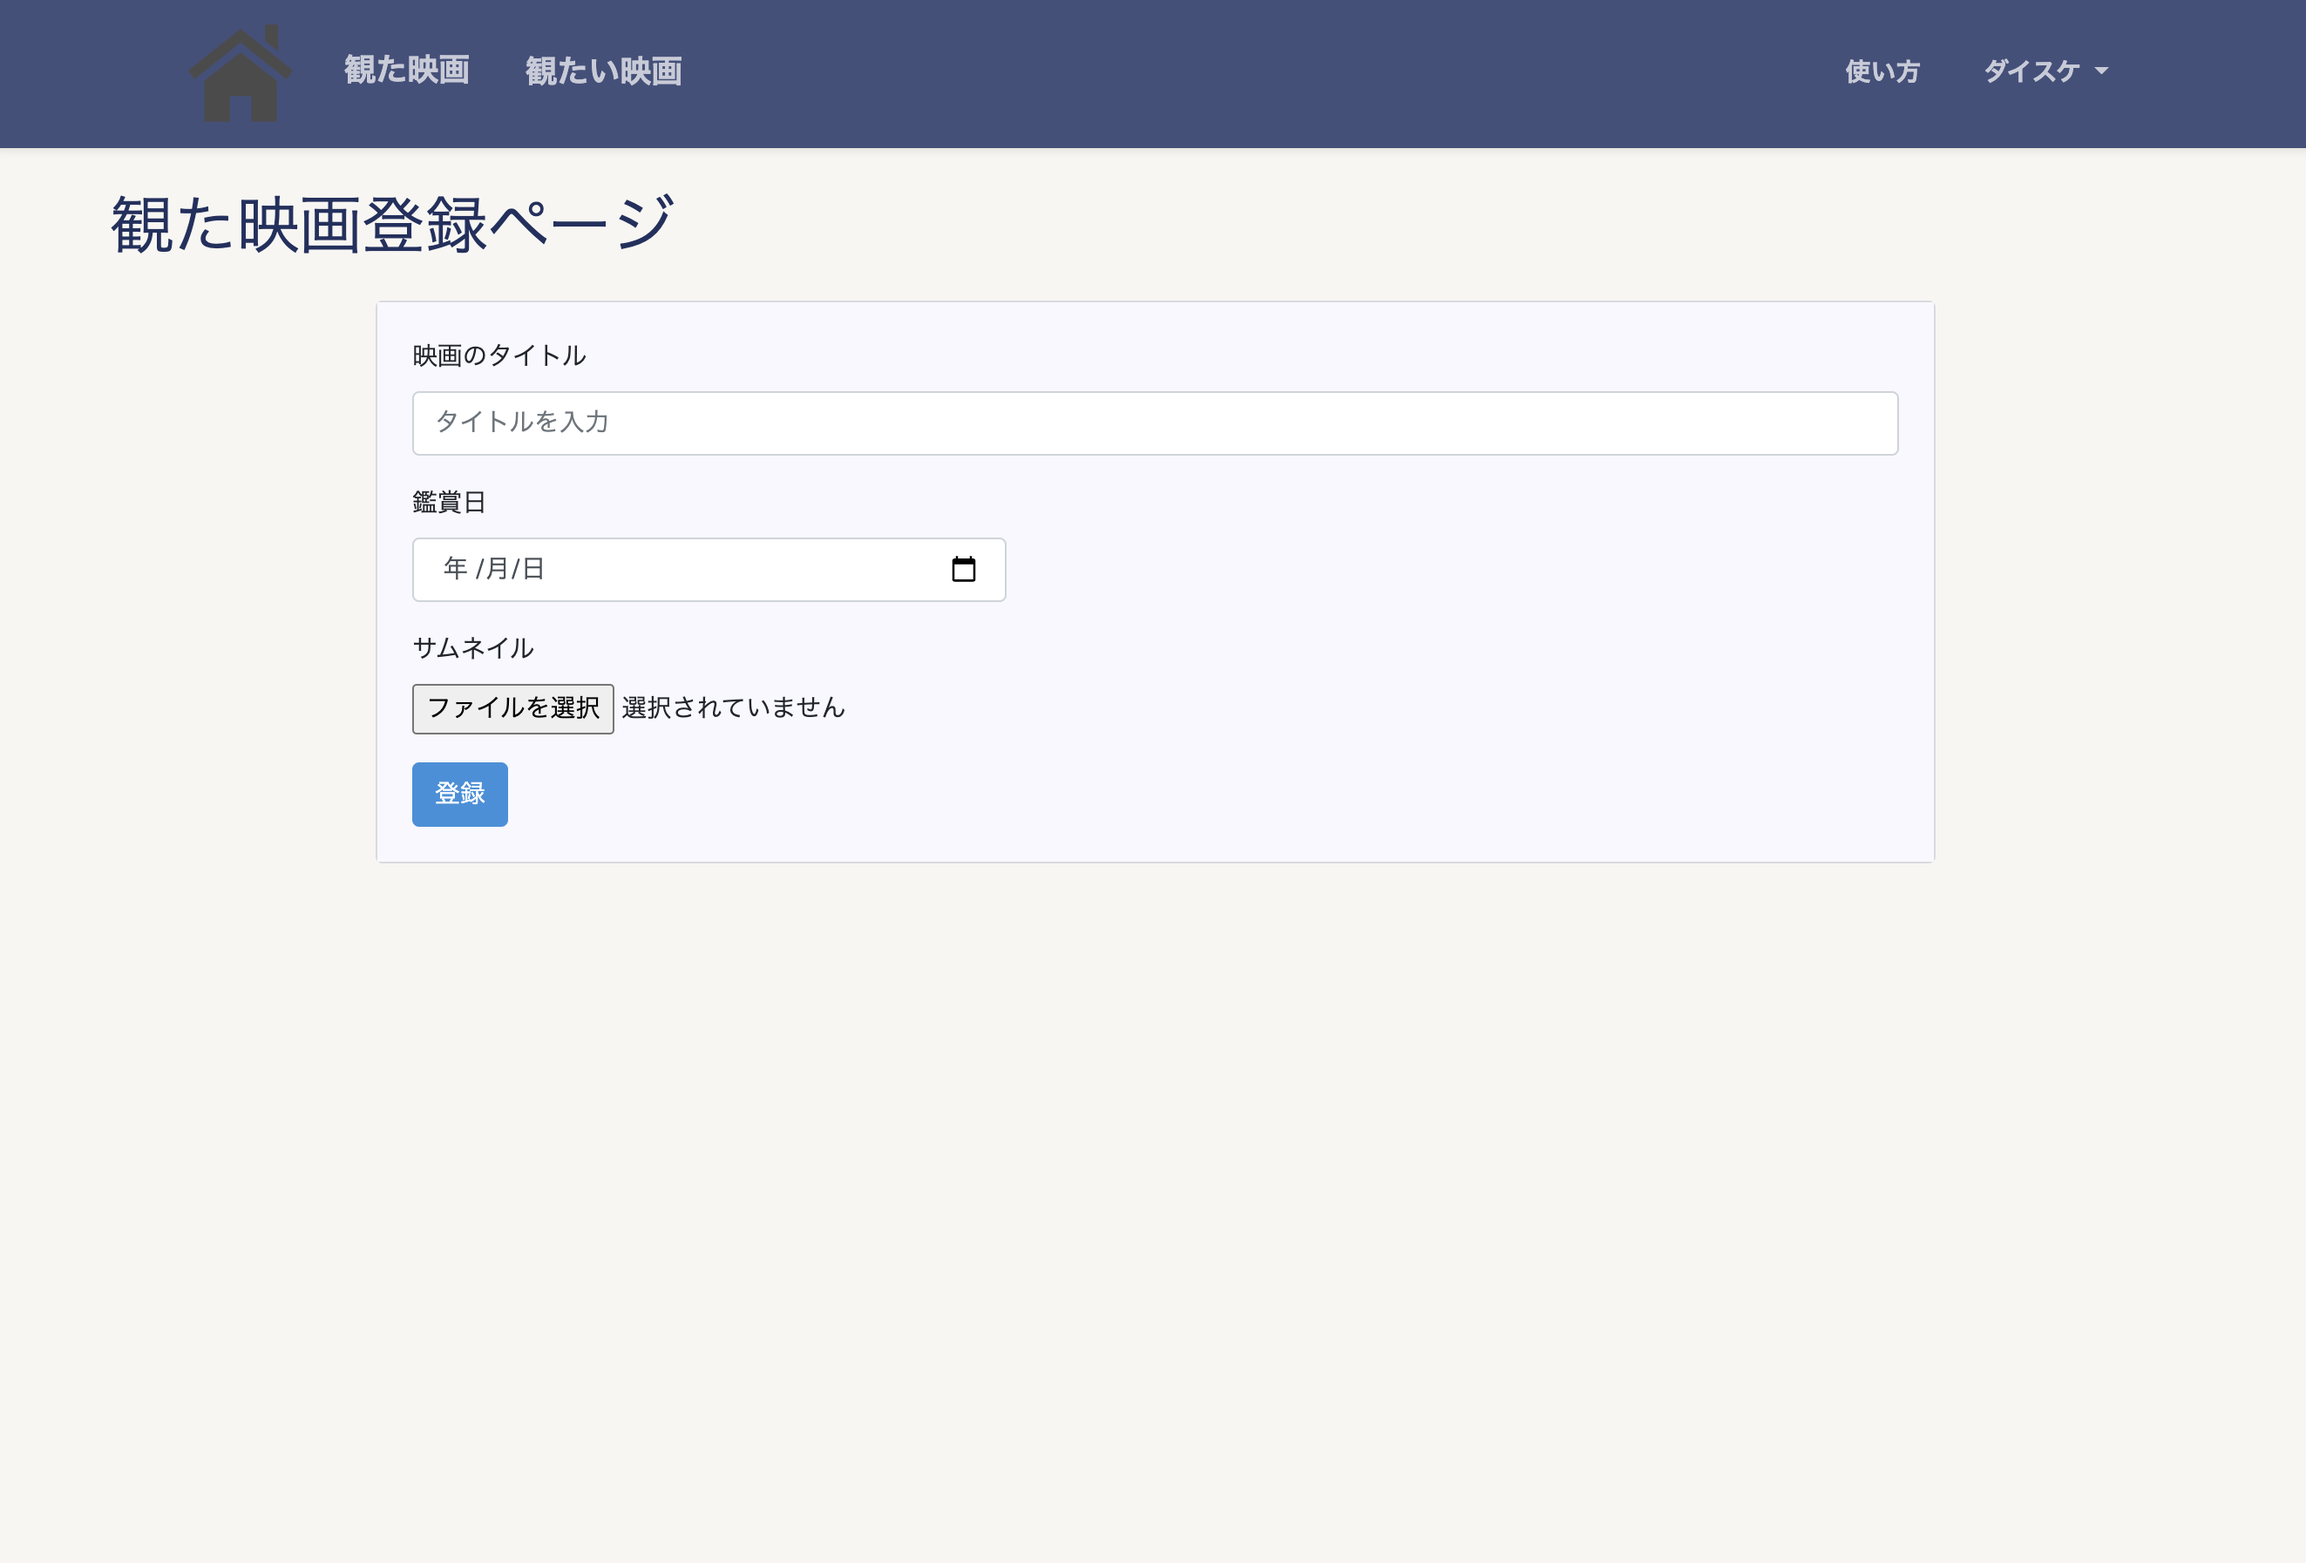
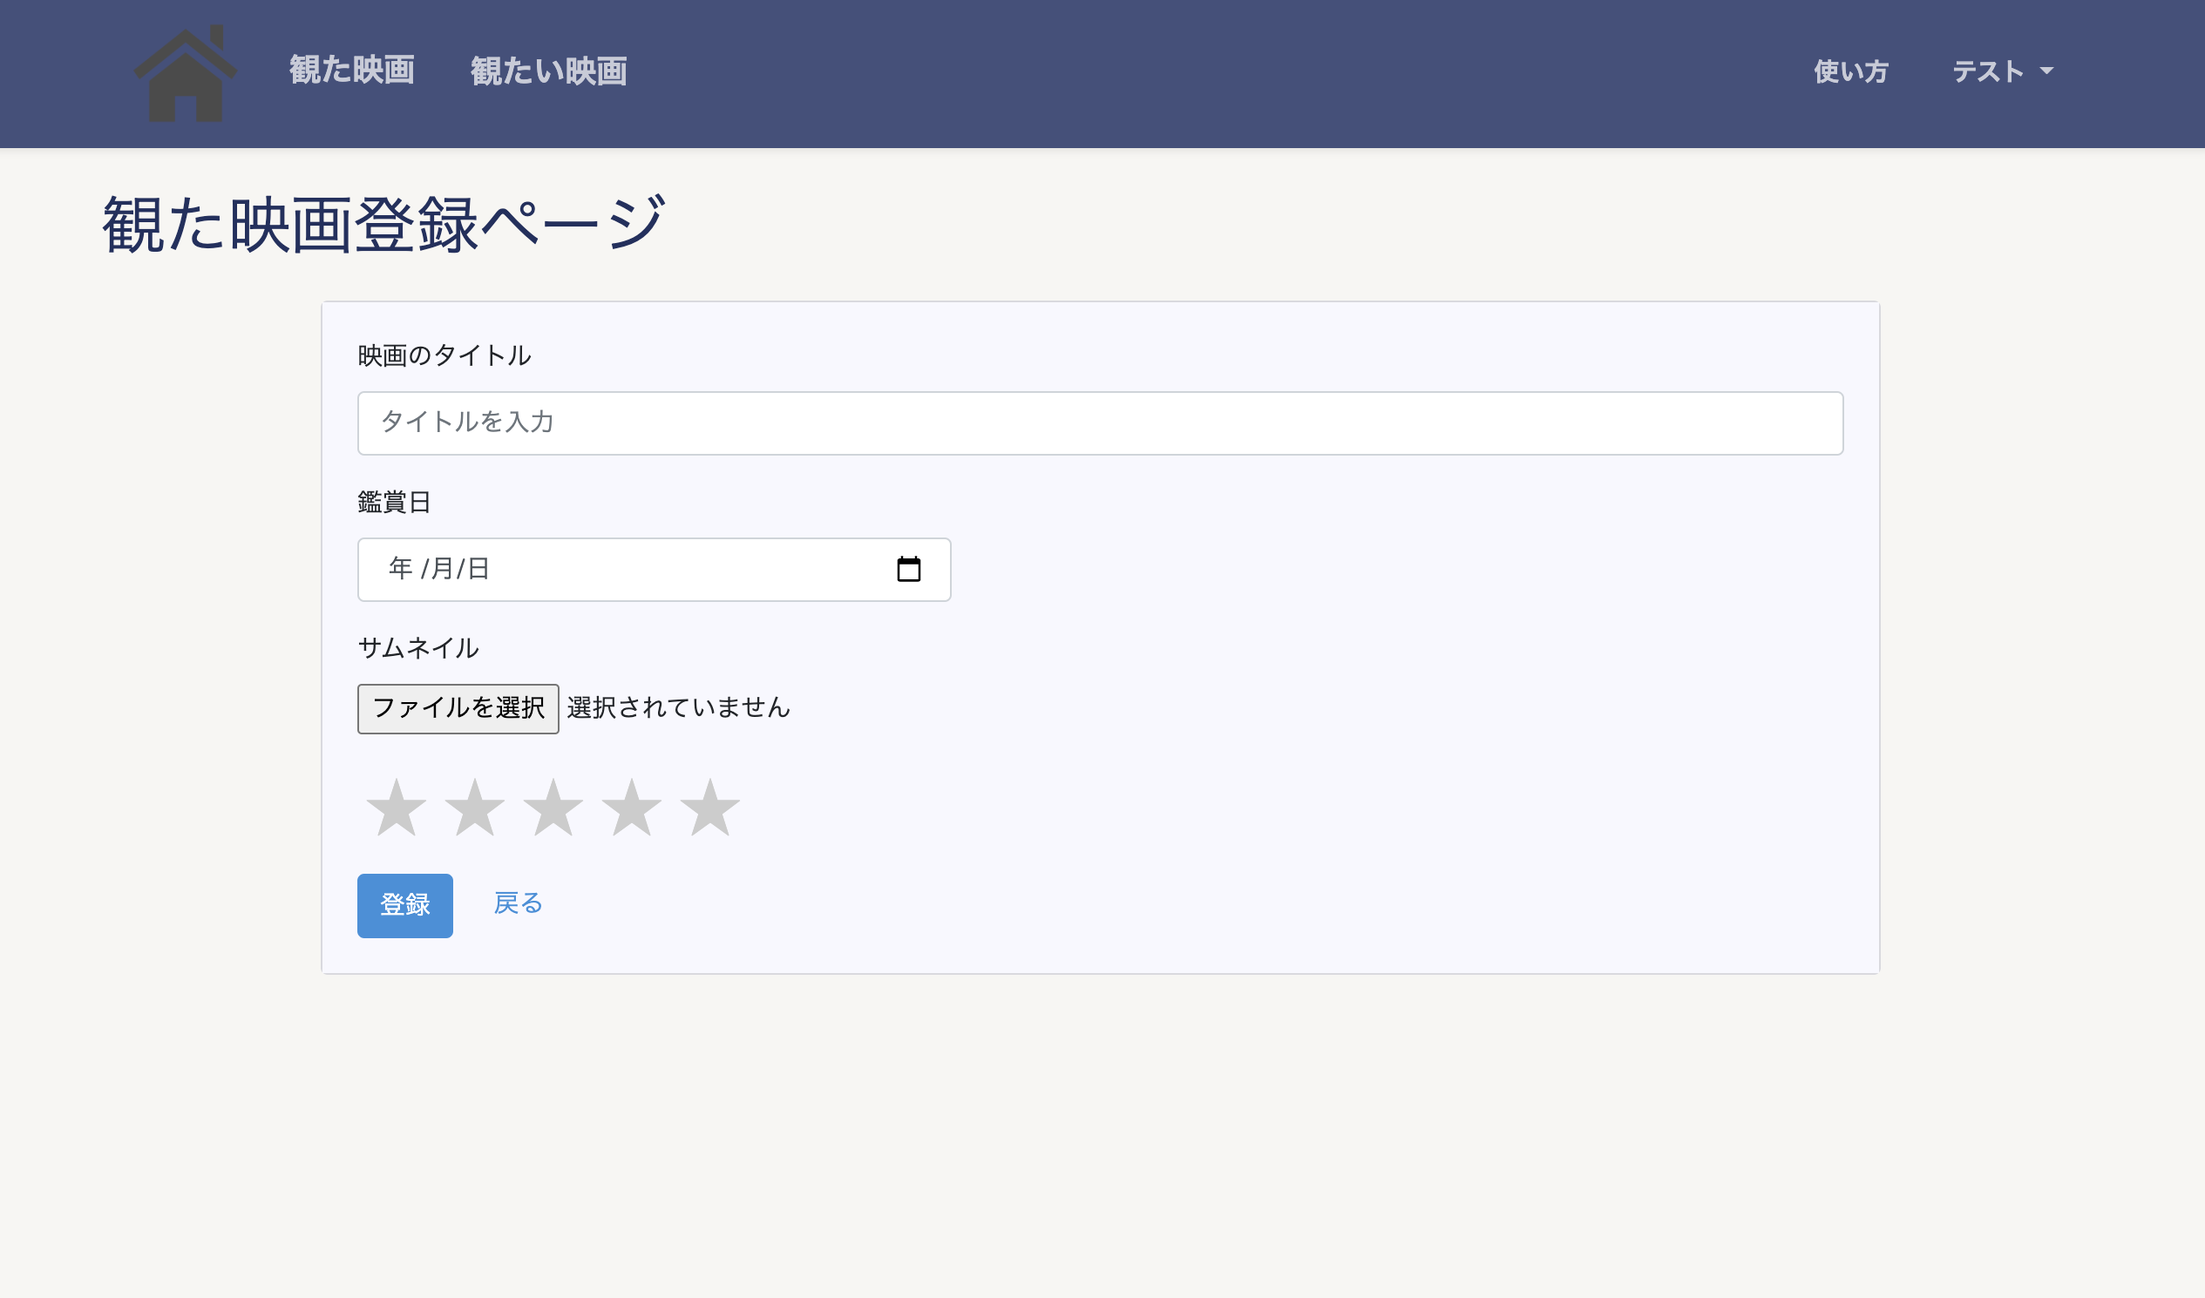
使い方ページ修正

diff --git a/app/resources/views/howto.blade.php b/app/resources/views/howto.blade.php
@@ -9,7 +9,7 @@
     <div class="howto-innner">
         <h2>①『追加する』ボタンを押す</h2>
         <img src="{{ asset('images/howto01.png') }}" alt="">
-        <h2>②『タイトル』『鑑賞日』『サムネイル』を入力する</h2>
+        <h2>②『タイトル』『鑑賞日』『サムネイル』『星評価』を入力する</h2>
         <img src="{{ asset('images/howto02.png') }}" alt="">
     </div><!-- howto-innner -->
     <a href="{{ route('index') }}" class='btn btn-info btn-back'>さっそく使ってみる</a>
